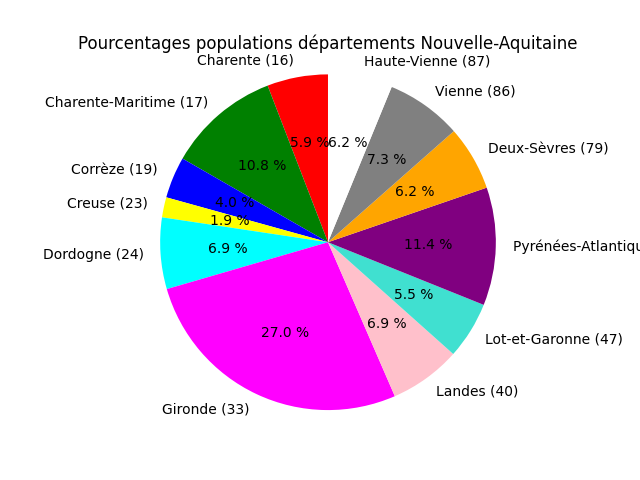
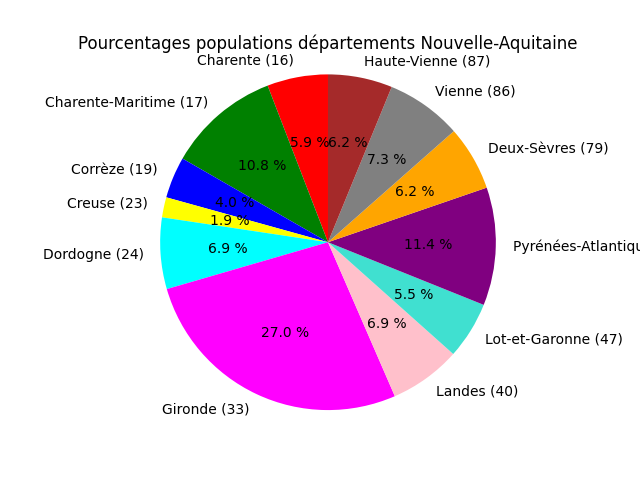
maj

Changed region(s): [[0.5, 0.1562, 0.625, 0.5]]

diff --git a/ConvertImage.py b/ConvertImage.py
@@ -1,4 +1,8 @@
+import uuid 
+from PIL import ImageTk, Image
+
 def convertImage(): 
+    filename = str(uuid.uuid4())
     img = Image.open("./Image/figure.png") 
     img = img.convert("RGBA") 
   
@@ -13,5 +17,5 @@ def convertImage():
             newData.append(item) 
   
     img.putdata(newData) 
-    img.save("./Image/New.png", "PNG") 
-    print("Successful") 
+    img.save("Image/figure.png", "PNG") 
+    print("Successful")

diff --git a/CreaImage.py b/CreaImage.py
@@ -17,7 +17,7 @@ data_Nouvelle_Aquitaine = [ (16, 'Charente', 352015, 5956.0),
 
 data = data_Nouvelle_Aquitaine
 colors = ['red', 'green', 'blue', 'yellow', 'cyan', 'magenta', 'pink', 'turquoise',
-'purple', 'orange', 'gray', 'white']
+'purple', 'orange', 'gray', 'brown']
 plt.title('Pourcentages populations départements Nouvelle-Aquitaine')
 plt.pie([d[2] for d in data],
 labels=[d[1] + ' (' + str(d[0]) + ')' for d in data],
